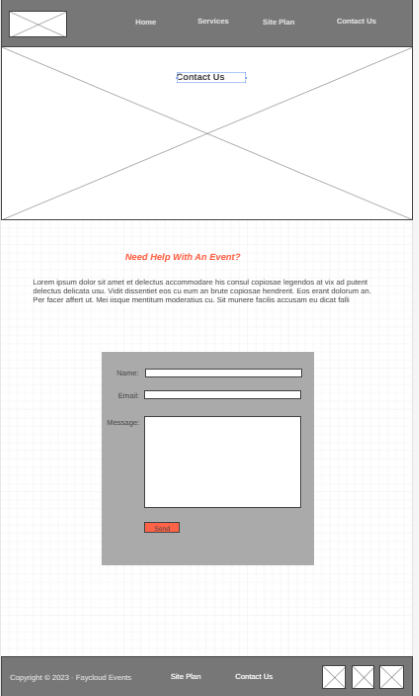
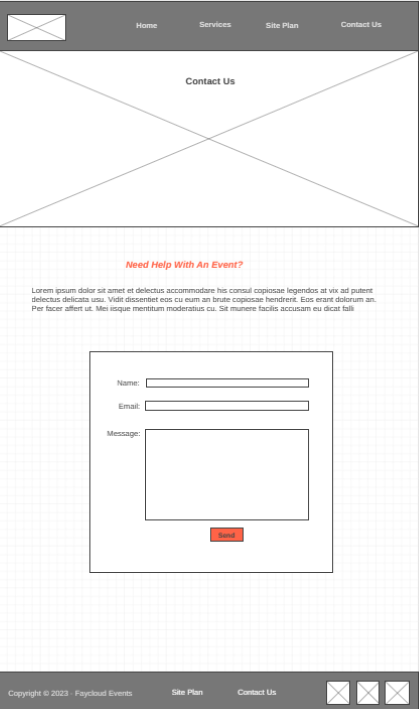
final

diff --git a/faycloudevents/styles/plan.css b/faycloudevents/styles/plan.css
@@ -1,9 +1,9 @@
-@import url('https://fonts.googleapis.com/css2?family=Bodoni+Moda:opsz@6..96&family=Domine&family=Roboto:ital@1&family=Rock+Salt&display=swap');
+@import url('https://fonts.googleapis.com/css2?family=IM+Fell+English+SC&family=Lobster+Two&family=Roboto&family=Rock+Salt&display=swap');
 /* Set a background color for the whole page */
 .container {
     position: relative;
     max-width: 1200px; /* Maximum width */
-    margin: auto; /* Center it */
+    margin: 0 auto;
   }
   
 .container .content {
@@ -17,10 +17,11 @@
   }
 body{
     background-color: #ffff; /* Choose your preferred color */
-    font-family: 'Roboto', 'Rock Salt', 'Bodoni Moda';
+    font-family: 'Roboto', 'IM Fell English SC', 'Rock Salt', 'Lobster Two';
     font-size: 22px;
     padding: 0;
     margin: 0;
+    text-align: center;
 }
 
 /* Style the header section */
@@ -96,19 +97,21 @@ main section {
 }
 /* Style the main title */
 .home-title {
-    font-family: 'Domine', 'Roboto';
-    font-size: 2em;
+    font-family: 'Lobster Two', 'Roboto';
+    font-size: 3em;
     color: #d18b14; /* darkblue text color */
     margin-top: 60px;
     padding: 20px;
 }
 h4 {
+    font-family: 'IM Fell English SC', 'Roboto';
+    font-size: 1.2em;
     color: #14120f;
 }
 
 /* Style the "Book Now" button */
 .book {
-    font-size: 18px;
+    font-size: 20px;
     background-color: #14120f; /* brown background color */
     color: #d18b14; /* black text color */
     padding: 15px 30px;
@@ -157,8 +160,11 @@ h4 {
     grid-row: 1/2;
 }
 .about_msg h2 {
-    font-family: 'Rock Salt', 'Bodoni Moda';
+    font-family: 'Rock Salt', 'Roboto';
     color: #d18b14;
+}
+.about_msg h3 {
+    font-family: 'IM Fell English SC', 'Lobster Two';
 }
 .service1-card {
     padding: 20px;
@@ -204,7 +210,7 @@ h4 {
 }
 .planner {
     width: 500px;
-    margin-left: -50px;
+    margin-left: -70px;
     grid-column: 4/7;
     grid-row: 8/9;
     margin-top: -400px;
@@ -245,7 +251,7 @@ h2 {
     margin-top: 80px; 
 }
 .msg h2{
-    font-family: 'Rock Salt', 'Bodoni Moda';
+    font-family: 'Rock Salt', 'Lobster Two';
     color: #d18b14;
 }
 .msg-p {
@@ -297,7 +303,7 @@ footer .social img{
     grid-row: 1/2;
 }
 .sub_services h2 {
-    font-family: "Rock Salt";
+    font-family: 'Rock Salt', 'Roboto';
     color: #d18b14;
 }
 .our_services {
@@ -308,7 +314,7 @@ footer .social img{
     grid-row: 2/3;
 }
 .our_services h2{
-    font-family: "Rock salt";
+    font-family: 'Rock Salt', 'IM Fell English SC';
     color: #d18b14;
 }
 .venue-card {
@@ -443,7 +449,7 @@ footer .social img{
     grid-row: 1/2;
 }
 .contact_msg h2 {
-    font-family: 'Rock Salt', 'Roboto';
+    font-family: 'Rock Salt', 'Lobster';
     color: #d18b14;
 }
 
@@ -527,8 +533,6 @@ footer .social img{
     font-size: 1em;
     background-color: #d18b14;
   }
-  
-
 
 @media screen and (max-width: 1200px) {
     #hero, .home-grid {

diff --git a/faycloudevents/site-plan.html b/faycloudevents/site-plan.html
@@ -26,7 +26,7 @@
 
       <h3>Audience</h3>
       <p>Our primary audience includes individuals and organizations seeking professional event planning services to execute successful and stress-free events.</p>  <!-- change this -->
-      <p>This encompasses engaged couples, corporate event managers, and anyone planning significant life celebrations or businesss gatherings.</p>
+      <p>This encompasses engaged couples, corporate event managers, and anyone planning significant life celebrations or business gatherings.</p>
 
       <hr>
       <h2>Branding</h2>
@@ -63,10 +63,10 @@
       <!-- Choose a font for your paragraphs (body copy) and headlines. What font(s) have you chosen? Why did you choose what you did?  Make sure to review the list of web safe fonts at W3Schools.org as a starting point.  Think also about which of your colors above you might use for background and font colors. -->
 
       <h4>
-        Heading Font: Roboto  <!-- change this -->
+        Heading Font: IM Fell English SC  <!-- change this -->
       </h4>
       <h4>
-        Paragraph Font: Rock Salt  <!-- change this -->
+        Paragraph Font: Roboto  <!-- change this -->
       </h4>
       <h3>
         Normal paragraph example

diff --git a/faycloudevents/styles/site-plan.css b/faycloudevents/styles/site-plan.css
@@ -1,7 +1,7 @@
 /* if you are using any Google fonts change the font names below to your fonts. 
 Any spaces in your font name should be replaced with a +. 
 Fonts are separated by a | */
-@import url('https://fonts.googleapis.com/css2?family=Bodoni+Moda:opsz@6..96&family=Domine&family=Roboto:ital@1&family=Rock+Salt&display=swap');
+@import url('https://fonts.googleapis.com/css2?family=IM+Fell+English+SC&family=Lobster+Two&family=Roboto&family=Rock+Salt&display=swap');
 
 :root {
   /* change the values below to your colors from your palette */
@@ -11,8 +11,8 @@ Fonts are separated by a | */
   --accent2-color: white;
 
   /* change the values below to your chosen font(s) */
-  --heading-font: "Rock Salt";
-  --paragraph-font: "IM Fell French Canon";
+  --heading-font: 'IM Fell English SC';
+  --paragraph-font: 'Roboto';
 
   /* these colors below should be chosen from among your palette colors above */
   --headline-color-on-white: #14120f;  /* headlines on a white background */ 
